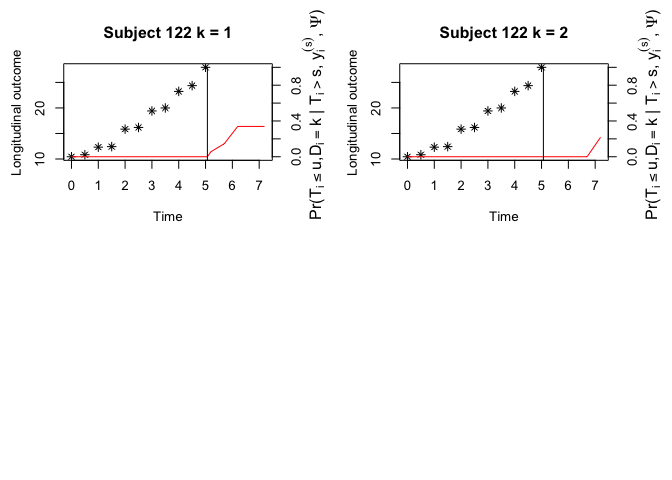
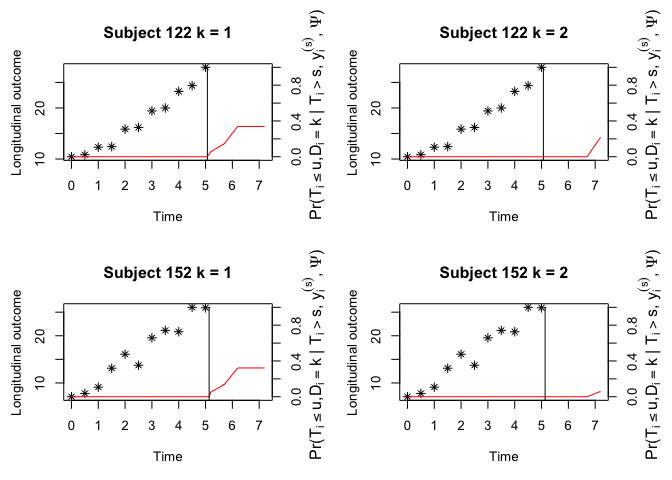
update readme

diff --git a/README.md b/README.md
@@ -122,8 +122,8 @@ Conditional cumulative incidence probabilities for each failure will be
 presented.
 
 ``` r
-cnewdata <- cdata[cdata$ID %in% c(122, 952), ]
-ynewdata <- ydata[ydata$ID %in% c(122, 952), ]
+cnewdata <- cdata[cdata$ID %in% c(122, 152), ]
+ynewdata <- ydata[ydata$ID %in% c(122, 152), ]
 survfit <- survfitJMMLSM(fit, seed = 100, ynewdata = ynewdata, cnewdata = cnewdata, 
                          u = seq(5.2, 7.2, by = 0.5), Last.time = "survtime",
                          obs.time = "time", method = "GH")
@@ -139,12 +139,24 @@ survfit
 #> 4 6.200000 0.33890999 0.0000000
 #> 5 6.700000 0.33890999 0.0000000
 #> 6 7.200000 0.33890999 0.2174255
+#> 
+#> $`152`
+#>      times      CIF1       CIF2
+#> 1 5.133665 0.0000000 0.00000000
+#> 2 5.200000 0.0523020 0.00000000
+#> 3 5.700000 0.1370218 0.00000000
+#> 4 6.200000 0.3219894 0.00000000
+#> 5 6.700000 0.3219894 0.00000000
+#> 6 7.200000 0.3219894 0.05990336
 oldpar <- par(mfrow = c(2, 2), mar = c(5, 4, 4, 4))
 plot(survfit, include.y = TRUE)
-par(oldpar)
 ```
 
 <img src="man/figures/README-unnamed-chunk-2-1.png" width="100%" />
+
+``` r
+par(oldpar)
+```
 
 To assess the prediction accuracy of the fitted joint model, we may run
 `PEJMMLSM` to calculate the Brier score.
